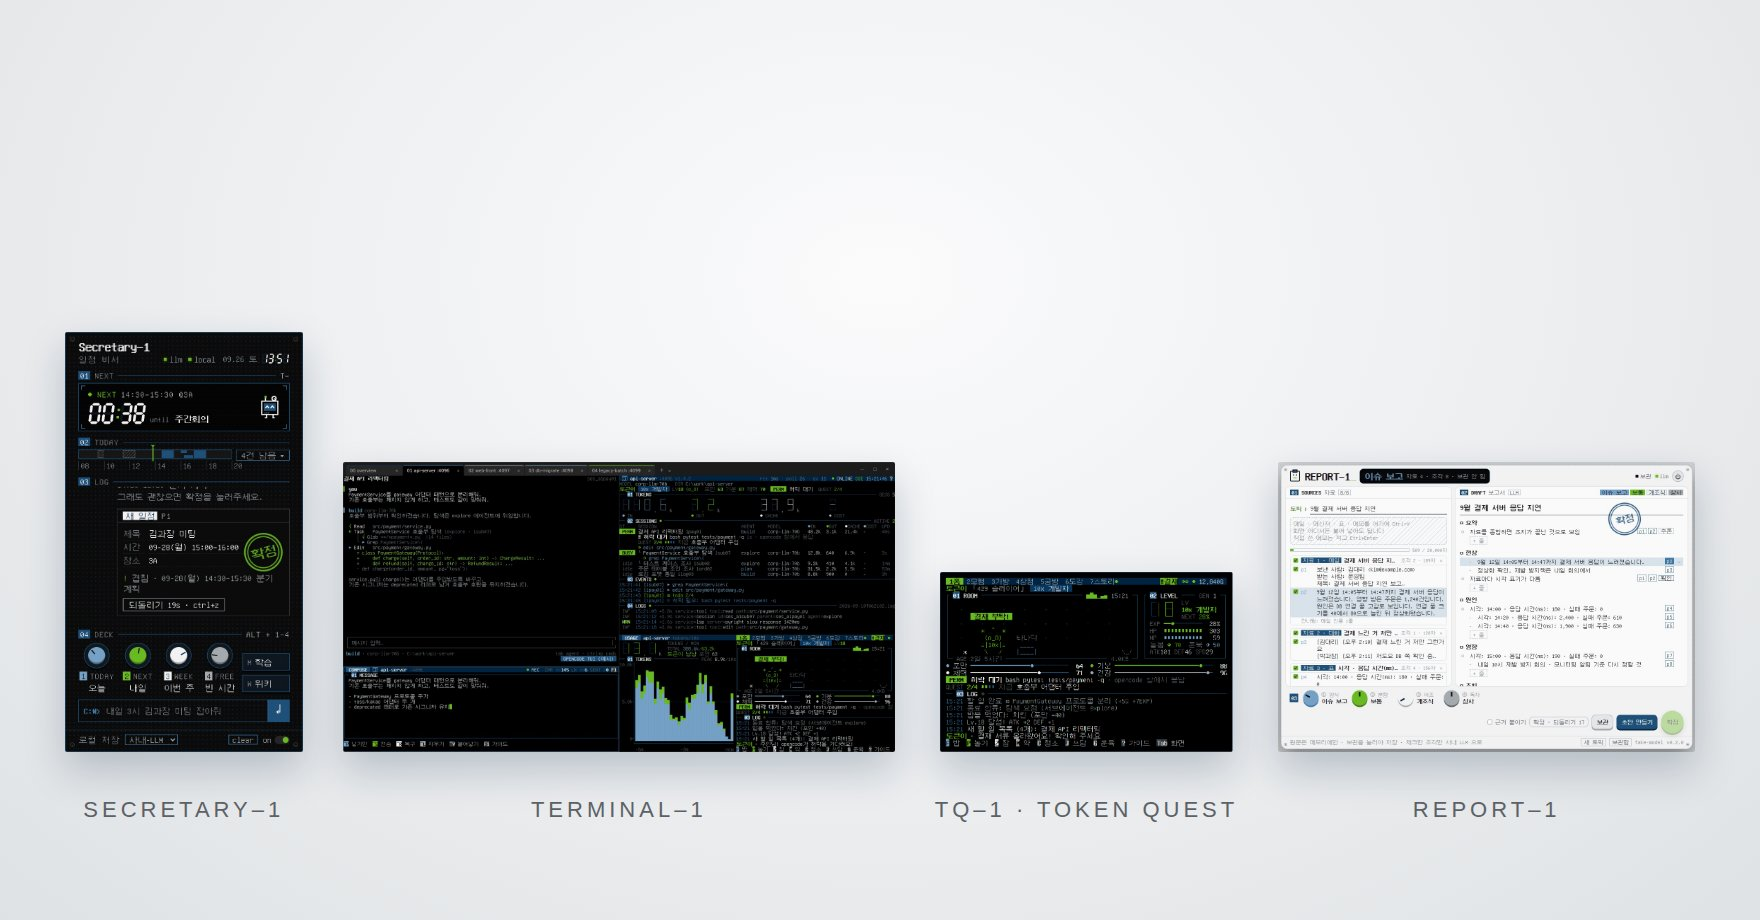
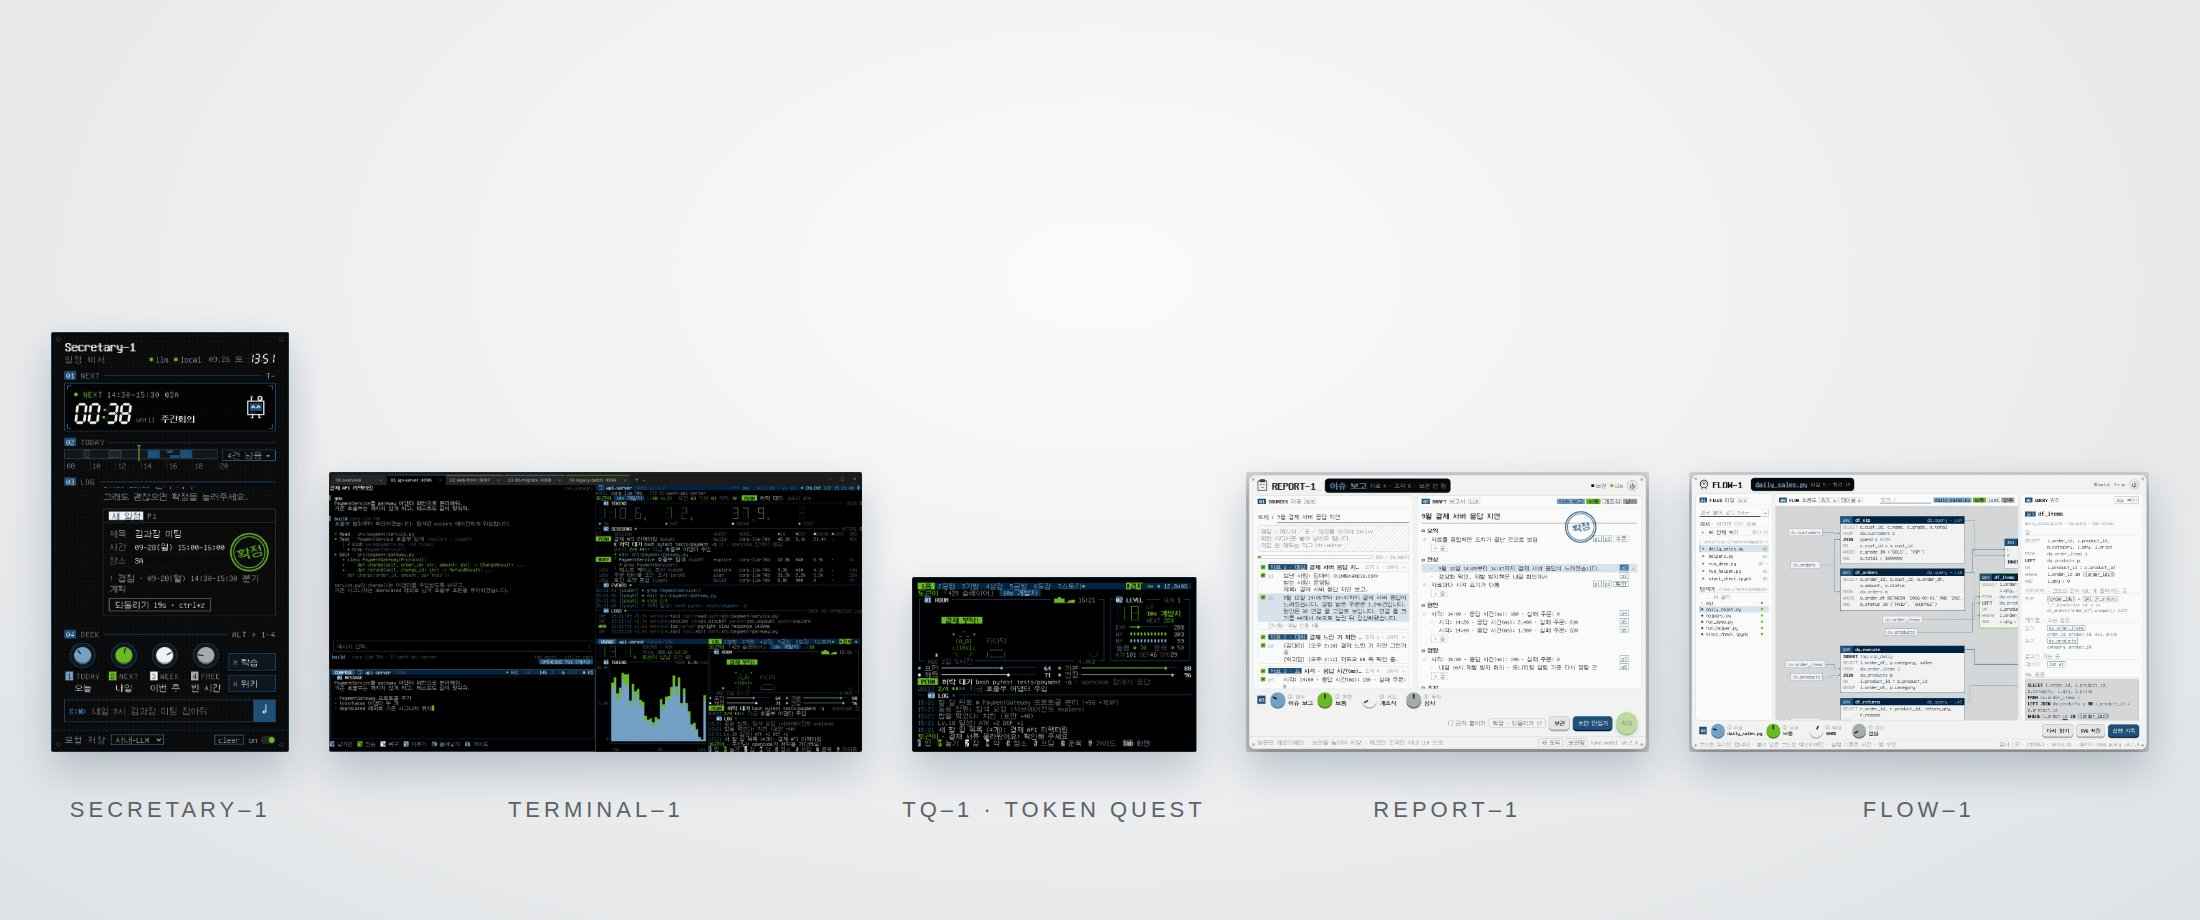
works: 시스템 소개에 Flow–1 · 시스템 · 부품 사진 다섯 앱으로
- 루트 README: 소개 · 부품 목록 · 링크 · 폴더 표 · 설치 프롬프트에 Flow–1, "도구는 넷, 폴더도 넷"
- tools/system_pages.py: PARTS 에 Flow–1 (hero 전체) · 캡처 폭 2200 (부품 카드 한 장 약 400px 유지)
- docs/page/system-{dark,light}.jpg · parts-{dark,light}.jpg 다시 만듦

Claude-Session: https://claude.ai/code/session_01VUHFrmhiWMMD1EomVJW3QZ

diff --git a/tools/system_pages.py b/tools/system_pages.py
@@ -24,8 +24,10 @@ PARTS = [
      "terminal-1/docs/images/page/pet-{theme}.png", (62, 12, 800, 492)),
     ("Report–1", "REPORT–1", "붙여 넣으면 근거 달린 보고서",
      "report-1/docs/page/hero-{theme}.jpg", (0, 0, 1180, 820)),
+    ("Flow–1", "FLOW–1", "파이썬 데이터 쿼리를 흐름도 한 장으로",
+     "flow-1/docs/page/hero-{theme}.jpg", (0, 0, 1480, 900)),
 ]
-W = 1760
+W = 2200                    # 부품 카드 하나가 약 400px 이 되게 (앱 수 × 440)
 SANS = '"Pretendard", "Malgun Gothic", "Apple SD Gothic Neo", "Noto Sans KR", "Segoe UI", "Liberation Sans", ' \
        '"WenQuanYi Zen Hei", sans-serif'
 THEME = {
@@ -77,7 +79,8 @@ def fit(box, max_w, max_h):
 
 def system_html(theme):
     t = THEME[theme]
-    heights = {"Secretary–1": 420, "Terminal–1": 290, "TQ–1 token quest": 180, "Report–1": 290}   # 앱을 더하면 줄인다
+    heights = {"Secretary–1": 420, "Terminal–1": 280, "TQ–1 token quest": 175, "Report–1": 280,   # 앱을 더하면 줄이거나
+               "Flow–1": 280}                                                                        # W 를 넓힌다
     figs = []
     for name, label, _, src, box in PARTS:
         h = heights.get(name, 330)
